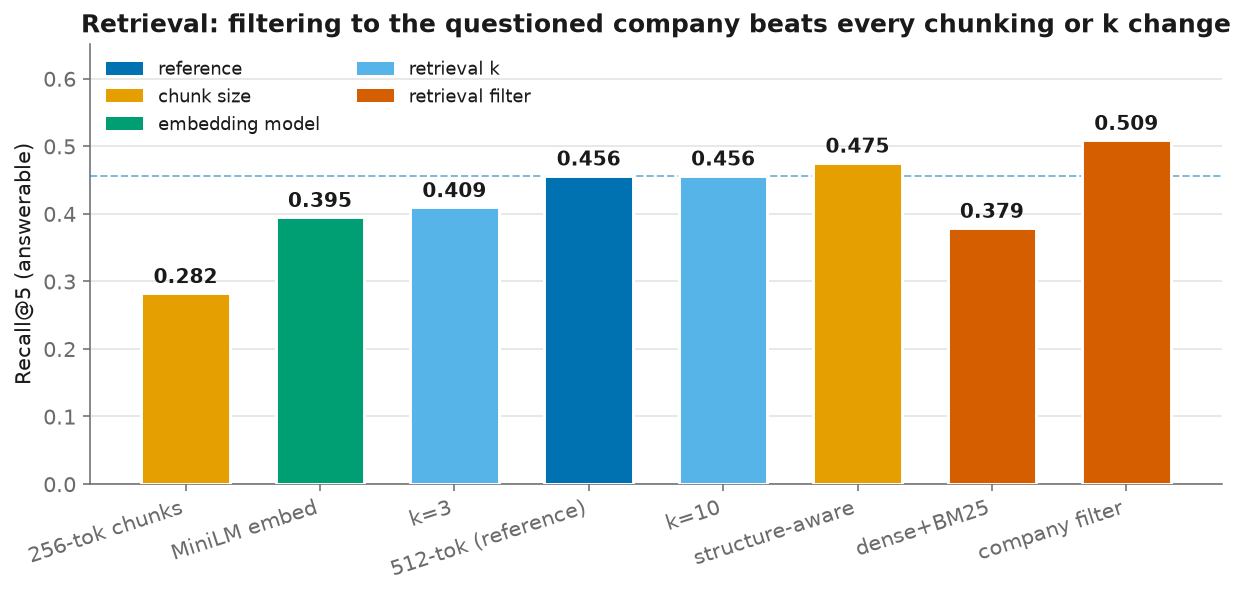
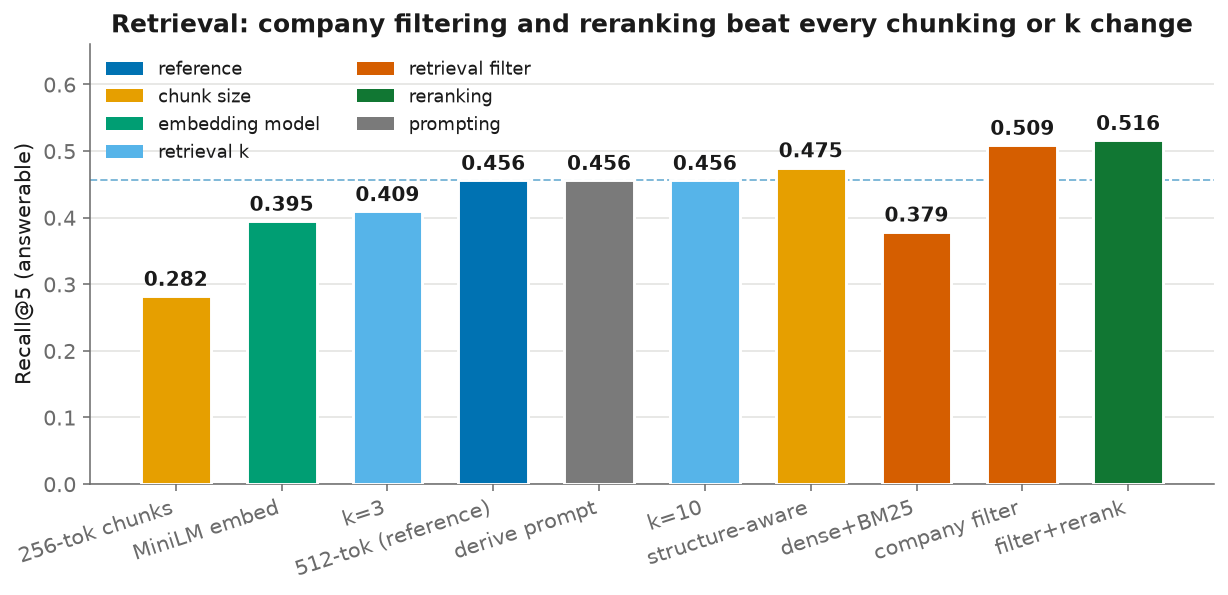
added the reranking and prompt results to the tables and figures

diff --git a/results/results_summary.md b/results/results_summary.md
@@ -7,11 +7,13 @@ answerable subset (documents that yield usable text); the full set is 150.
 
 | config | axis | R@1 | R@5 | R@10 | MRR |
 | --- | --- | --- | --- | --- | --- |
+| rerank_filtered | reranking | 0.249 | 0.516 | 0.516 | 0.360 |
 | filtered_meta | retrieval_filter | 0.259 | 0.509 | 0.509 | 0.358 |
 | chunk_structure | chunk_size | 0.244 | 0.475 | 0.475 | 0.333 |
 | baseline | reference | 0.232 | 0.456 | 0.456 | 0.323 |
 | gen_gemma | generation_model | 0.232 | 0.456 | 0.456 | 0.323 |
 | k_10 | retrieval_k | 0.232 | 0.456 | 0.504 | 0.329 |
+| prompt_derive | prompting | 0.232 | 0.456 | 0.456 | 0.323 |
 | k_3 | retrieval_k | 0.232 | 0.409 | 0.409 | 0.311 |
 | embed_minilm | embedding_model | 0.149 | 0.395 | 0.395 | 0.243 |
 | hybrid | retrieval_filter | 0.124 | 0.379 | 0.379 | 0.218 |
@@ -21,10 +23,13 @@ answerable subset (documents that yield usable text); the full set is 150.
 
 | config | model | ROUGE-L | semantic | cit F1 | abstained |
 | --- | --- | --- | --- | --- | --- |
-| baseline | Qwen3.5-4B | 0.100 | 0.329 | 0.080 | 99.000 |
-| chunk_256 | Qwen3.5-4B | 0.101 | 0.306 | 0.113 | 101.000 |
-| chunk_structure | Qwen3.5-4B | 0.102 | 0.321 | 0.070 | 102.000 |
+| baseline | Qwen3.5-4B | 0.100 | 0.329 | 0.080 | 102.000 |
+| chunk_256 | Qwen3.5-4B | 0.101 | 0.306 | 0.113 | 105.000 |
+| chunk_structure | Qwen3.5-4B | 0.102 | 0.321 | 0.070 | 108.000 |
 | gen_gemma | gemma-4-12B | 0.096 | 0.253 | 0.077 | 112.000 |
+| filtered_meta | Qwen3.5-4B | 0.105 | 0.355 | 0.214 | 95.000 |
+| rerank_filtered | Qwen3.5-4B | 0.116 | 0.380 | 0.130 | 89.000 |
+| prompt_derive | Qwen3.5-4B | 0.084 | 0.329 | 0.245 | 100.000 |
 
 ## Answerable versus all, Recall@5
 
@@ -37,8 +42,10 @@ answerable subset (documents that yield usable text); the full set is 150.
 | gen_gemma | 0.360 | 0.456 |
 | k_10 | 0.360 | 0.456 |
 | k_3 | 0.324 | 0.409 |
-| filtered_meta | 0.400 | 0.509 |
 | hybrid | 0.294 | 0.379 |
+| filtered_meta | 0.400 | 0.509 |
+| rerank_filtered | 0.409 | 0.516 |
+| prompt_derive | 0.360 | 0.456 |
 
 ## Reference run by question type (answerable)
 
